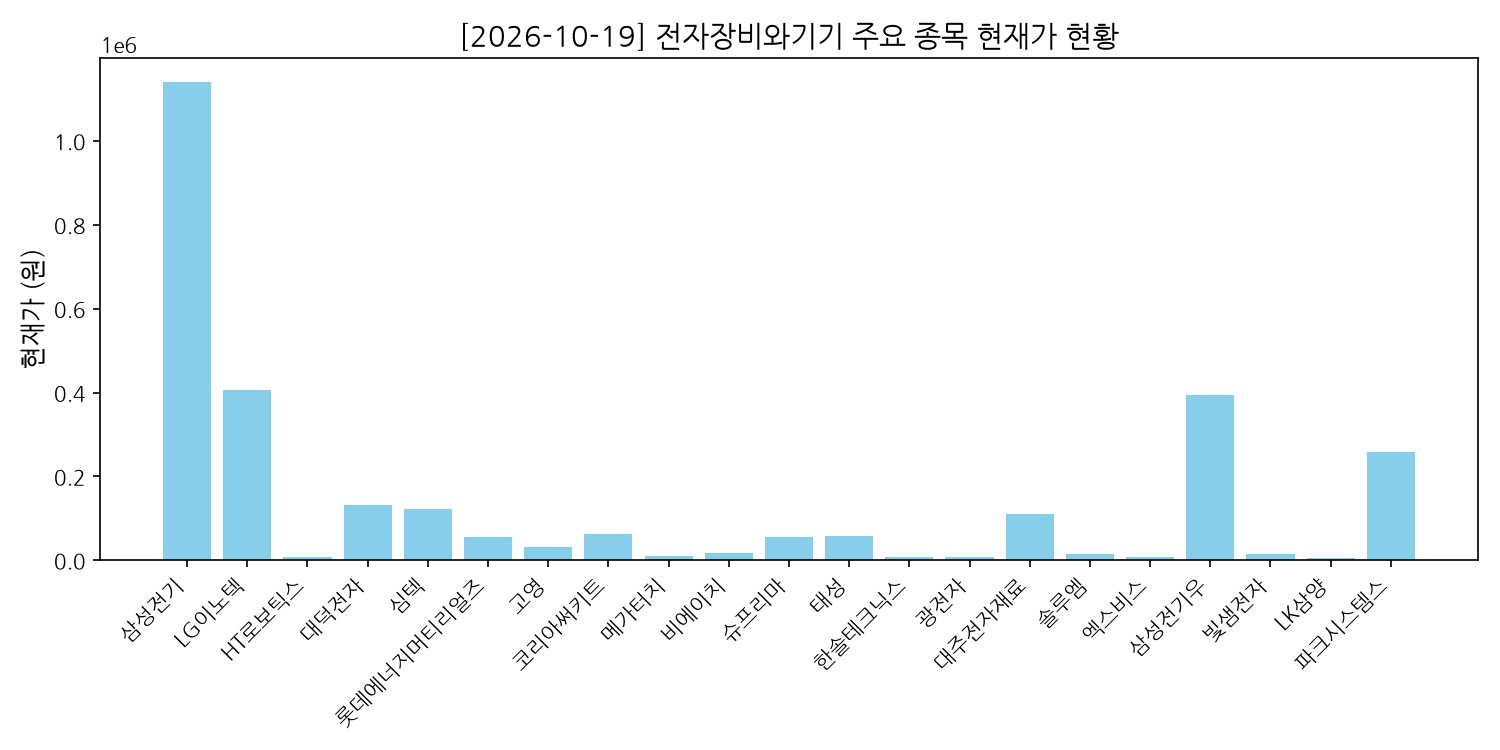
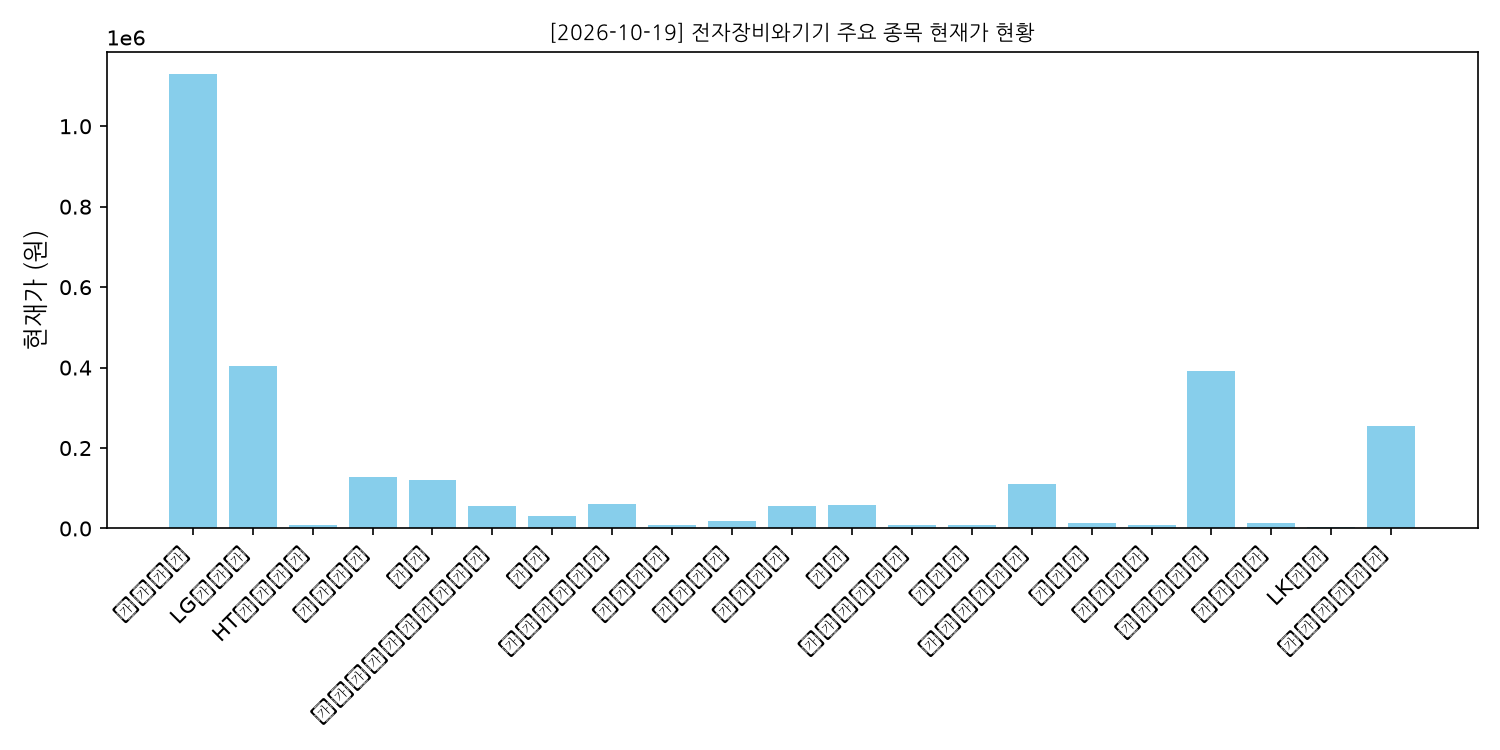
Auto-generate daily report and charts with Korean font: 2026-10-19

diff --git a/reports/report_2026-10-19.md b/reports/report_2026-10-19.md
@@ -4,29 +4,29 @@
 
 ## 📊 종목별 요약 테이블
 
-| 종목명        | 종목코드   |       현재가(종가) |   등락률(%) |       거래량 |
-|:-----------|:-------|--------------:|---------:|----------:|
-| 삼성전기       | 009150 |      1.14e+06 |    -4.04 |   759,610 |
-| LG이노텍      | 011070 | 406000        |    -0.12 |   128,726 |
-| HT로보틱스     | 396300 |   8690        |    -3.55 | 9,881,733 |
-| 대덕전자       | 353200 | 131100        |    -0.46 |   457,833 |
-| 심텍         | 222800 | 122800        |    -3    |   592,433 |
-| 롯데에너지머티리얼즈 | 020150 |  54500        |    10.32 |   685,431 |
-| 고영         | 098460 |  31500        |    -3.96 |   524,678 |
-| 코리아써키트     | 007810 |  62900        |    -2.93 |   377,147 |
-| 메가터치       | 446540 |   9970        |     5.5  |   456,260 |
-| 비에이치       | 090460 |  17750        |     2.42 |   481,203 |
-| 슈프리마       | 236200 |  56100        |     0.18 |     9,324 |
-| 태성         | 323280 |  57900        |     9.45 |   728,827 |
-| 한솔테크닉스     | 004710 |   8590        |    -3.48 |   361,508 |
-| 광전자        | 017900 |   8110        |    -1.34 |   363,459 |
-| 대주전자재료     | 078600 | 109700        |     6.3  |   498,751 |
-| 솔루엠        | 248070 |  14710        |     4.85 |   229,069 |
-| 엑스비스       | 0011A0 |   9060        |     3.31 |    76,874 |
-| 삼성전기우      | 009155 | 394000        |    -3.67 |     9,762 |
-| 빛샘전자       | 072950 |  14930        |    -1.26 |   461,533 |
-| LK삼양       | 225190 |   4415        |    16.18 | 1,138,447 |
-| 파크시스템스     | 140860 | 258000        |    -0.96 |     8,008 |
+| 종목명        | 종목코드   |        현재가(종가) |   등락률(%) |        거래량 |
+|:-----------|:-------|---------------:|---------:|-----------:|
+| 삼성전기       | 009150 |      1.129e+06 |    -4.97 |    787,551 |
+| LG이노텍      | 011070 | 404000         |    -0.62 |    132,826 |
+| HT로보틱스     | 396300 |   8530         |    -5.33 | 10,148,173 |
+| 대덕전자       | 353200 | 128800         |    -2.2  |    485,126 |
+| 심텍         | 222800 | 121400         |    -4.11 |    612,585 |
+| 롯데에너지머티리얼즈 | 020150 |  55600         |    12.55 |    749,763 |
+| 고영         | 098460 |  31250         |    -4.73 |    556,526 |
+| 코리아써키트     | 007810 |  62000         |    -4.32 |    387,479 |
+| 메가터치       | 446540 |   9770         |     3.39 |    492,133 |
+| 비에이치       | 090460 |  17560         |     1.33 |    488,794 |
+| 슈프리마       | 236200 |  56050         |     0.09 |      9,421 |
+| 태성         | 323280 |  58300         |    10.21 |    759,400 |
+| 한솔테크닉스     | 004710 |   8510         |    -4.38 |    378,114 |
+| 광전자        | 017900 |   8050         |    -2.07 |    372,966 |
+| 대주전자재료     | 078600 | 109500         |     6.1  |    521,863 |
+| 솔루엠        | 248070 |  14730         |     4.99 |    239,990 |
+| 엑스비스       | 0011A0 |   8990         |     2.51 |     79,599 |
+| 삼성전기우      | 009155 | 390500         |    -4.52 |     10,103 |
+| 빛샘전자       | 072950 |  14810         |    -2.05 |    480,342 |
+| LK삼양       | 225190 |   4390         |    15.53 |  1,196,217 |
+| 파크시스템스     | 140860 | 255500         |    -1.92 |      8,348 |
 
 ## 📈 시각화 차트
 
